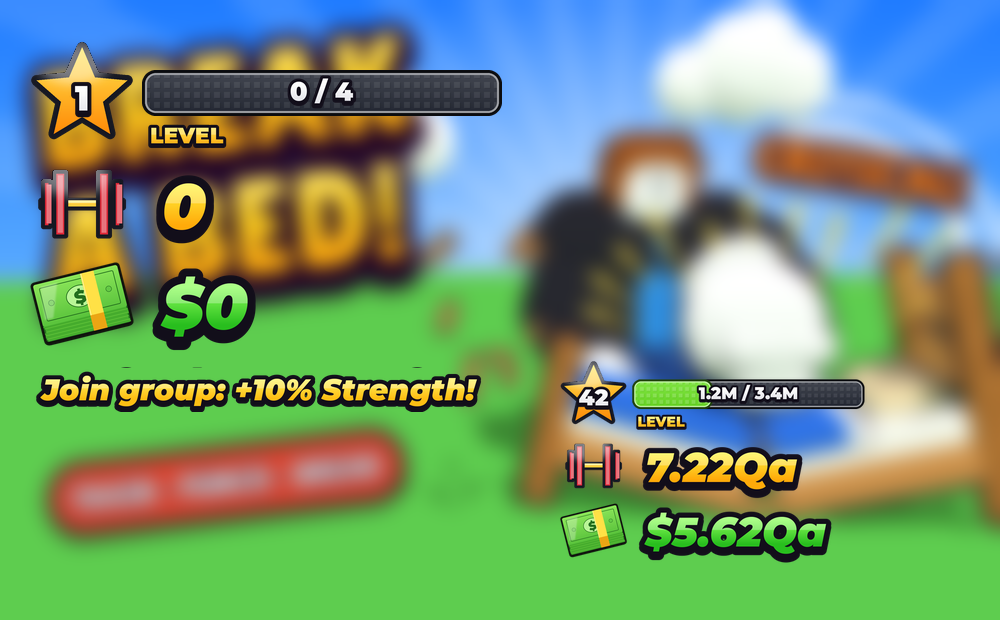
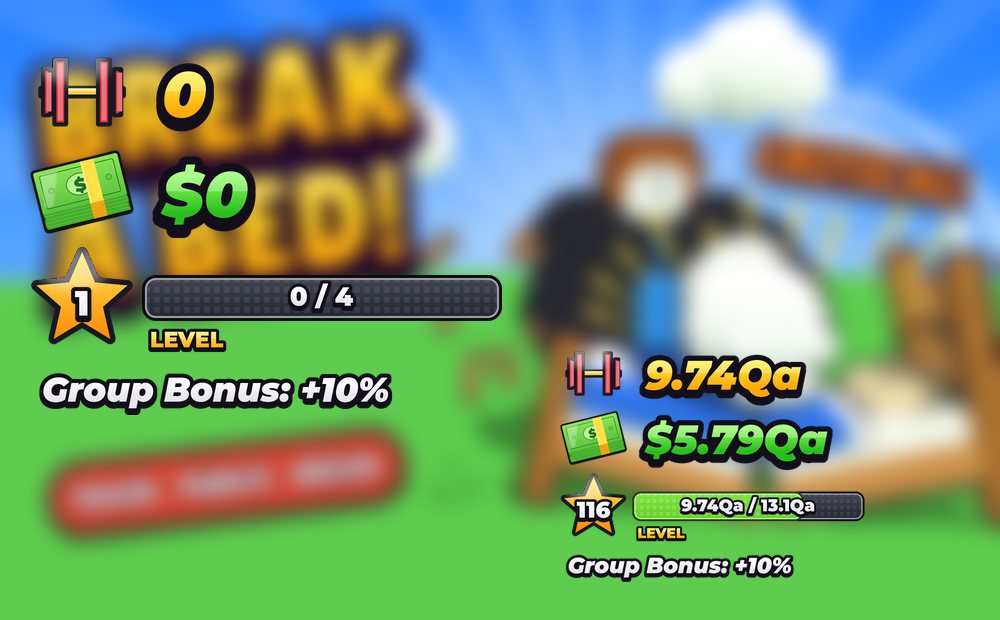
Break A Bed: stats order Strength, Cash, Level, Group Bonus
Claude-Session: https://claude.ai/code/session_016uvrS3Ui1ijFbyufuEdzSK

Changed region(s): [[0.031, 0.0613, 0.527, 0.6742], [0.558, 0.5516, 0.868, 0.95]]

diff --git a/Break A Bed/UI Kit/source/stats2.py b/Break A Bed/UI Kit/source/stats2.py
@@ -17,21 +17,22 @@ def star_badge(n, num):
     A.stroke_text(st, (n / 2, n * 0.56), str(num), int(n * 0.34), (255, 255, 255), (235, 235, 240), anchor='mm')
     return st
 
-def block(level=1, cur='0', nxt='4', v=0.0, strength='0', cash='$0'):
-    im = Image.new('RGBA', (620, 330), (0, 0, 0, 0))
-    im.alpha_composite(star_badge(104, level), (0, 0))
+def block(level=1, cur='0', nxt='4', v=0.0, strength='0', cash='$0', bonus=True):
+    im = Image.new('RGBA', (620, 380), (0, 0, 0, 0))
+    im.alpha_composite(gloss(dumbbell(104)), (0, 0))
+    A.stroke_text(im, (116, 54), strength, 64, (255, 240, 60), (255, 170, 10), ital=True)
+    im.alpha_composite(money.cash1(104), (0, 100))
+    A.stroke_text(im, (116, 154), cash, 64, (140, 255, 90), (40, 190, 30), ital=True)
+    im.alpha_composite(star_badge(104, level), (0, 205))
     b = bar(360, 46, v); A.stroke_text(b, (180, 22), f'{cur} / {nxt}', 26, (255, 255, 255), (230, 230, 235), anchor='mm')
-    im.alpha_composite(b, (112, 30))
-    A.stroke_text(im, (114, 96), 'LEVEL', 22, (255, 230, 80), (255, 180, 30))
-    im.alpha_composite(gloss(dumbbell(104)), (0, 112))
-    A.stroke_text(im, (116, 166), strength, 64, (255, 240, 60), (255, 170, 10), ital=True)
-    im.alpha_composite(money.cash1(104), (0, 212))
-    A.stroke_text(im, (116, 266), cash, 64, (140, 255, 90), (40, 190, 30), ital=True)
+    im.alpha_composite(b, (112, 235))
+    A.stroke_text(im, (114, 300), 'LEVEL', 22, (255, 230, 80), (255, 180, 30))
+    if bonus:
+        A.stroke_text(im, (4, 350), 'Group Bonus: +10%', 34, (255, 255, 255), (230, 230, 235), ital=True)
     return im
 
 if __name__ == '__main__':
     bg = Image.open(sys.argv[1]).convert('RGBA').resize((1000, 620)).filter(ImageFilter.GaussianBlur(10))
     bg.alpha_composite(block(), (30, 40))
-    bg.alpha_composite(block(42, '1.2M', '3.4M', 0.35, '7.22Qa', '$5.62Qa').resize((400, 213), Image.LANCZOS), (560, 360))
-    A.stroke_text(bg, (34, 390), 'Join group: +10% Strength!', 30, (255, 240, 90), (255, 190, 20), ital=True)
+    bg.alpha_composite(block(116, '9.74Qa', '13.1Qa', 0.74, '9.74Qa', '$5.79Qa').resize((400, 245), Image.LANCZOS), (560, 340))
     bg.convert('RGB').save('stats2.png', quality=92)

diff --git a/Break A Bed/UI Kit/UI Kit.md b/Break A Bed/UI Kit/UI Kit.md
@@ -39,7 +39,8 @@ The owner sent screenshots of a popular simulator (Shop/Index buttons, a dark st
   - **Strength:** the red **3D dumbbell** (`icon-dumbbell-3d.png`, not the flat dark glyph), then a big **italic** number in a yellow → orange gradient with a thick dark stroke and shadow.
   - **Cash:** `money-small.png`, then a big italic number in a light green → dark green gradient.
   - Use **one font everywhere** (Montserrat Heavy / Heavy Italic). Line them up in a neat column with the icons the same size (about 100 px on PC).
-  - "Join group: +10% Strength!" in yellow italic under them (members don't see it).
+  - **Order, top to bottom (owner 2026-10-12):** Strength → Cash → **Level** → "Group Bonus: +10%" (or "Join group: +10% Strength!" in yellow for non-members).
+  - **Bug to fix:** the level bar's green fill must show the progress (for 9.74Qa / 13.1Qa it should be about 74% full; it was showing empty).
 - **Tutorial:** a cyan box at the top center with white text and a dark bar track with a green studded fill ("3/10"). Skip is a small red button.
 
 ### Big menus (Shop, Free Gifts, Settings, Index…)
